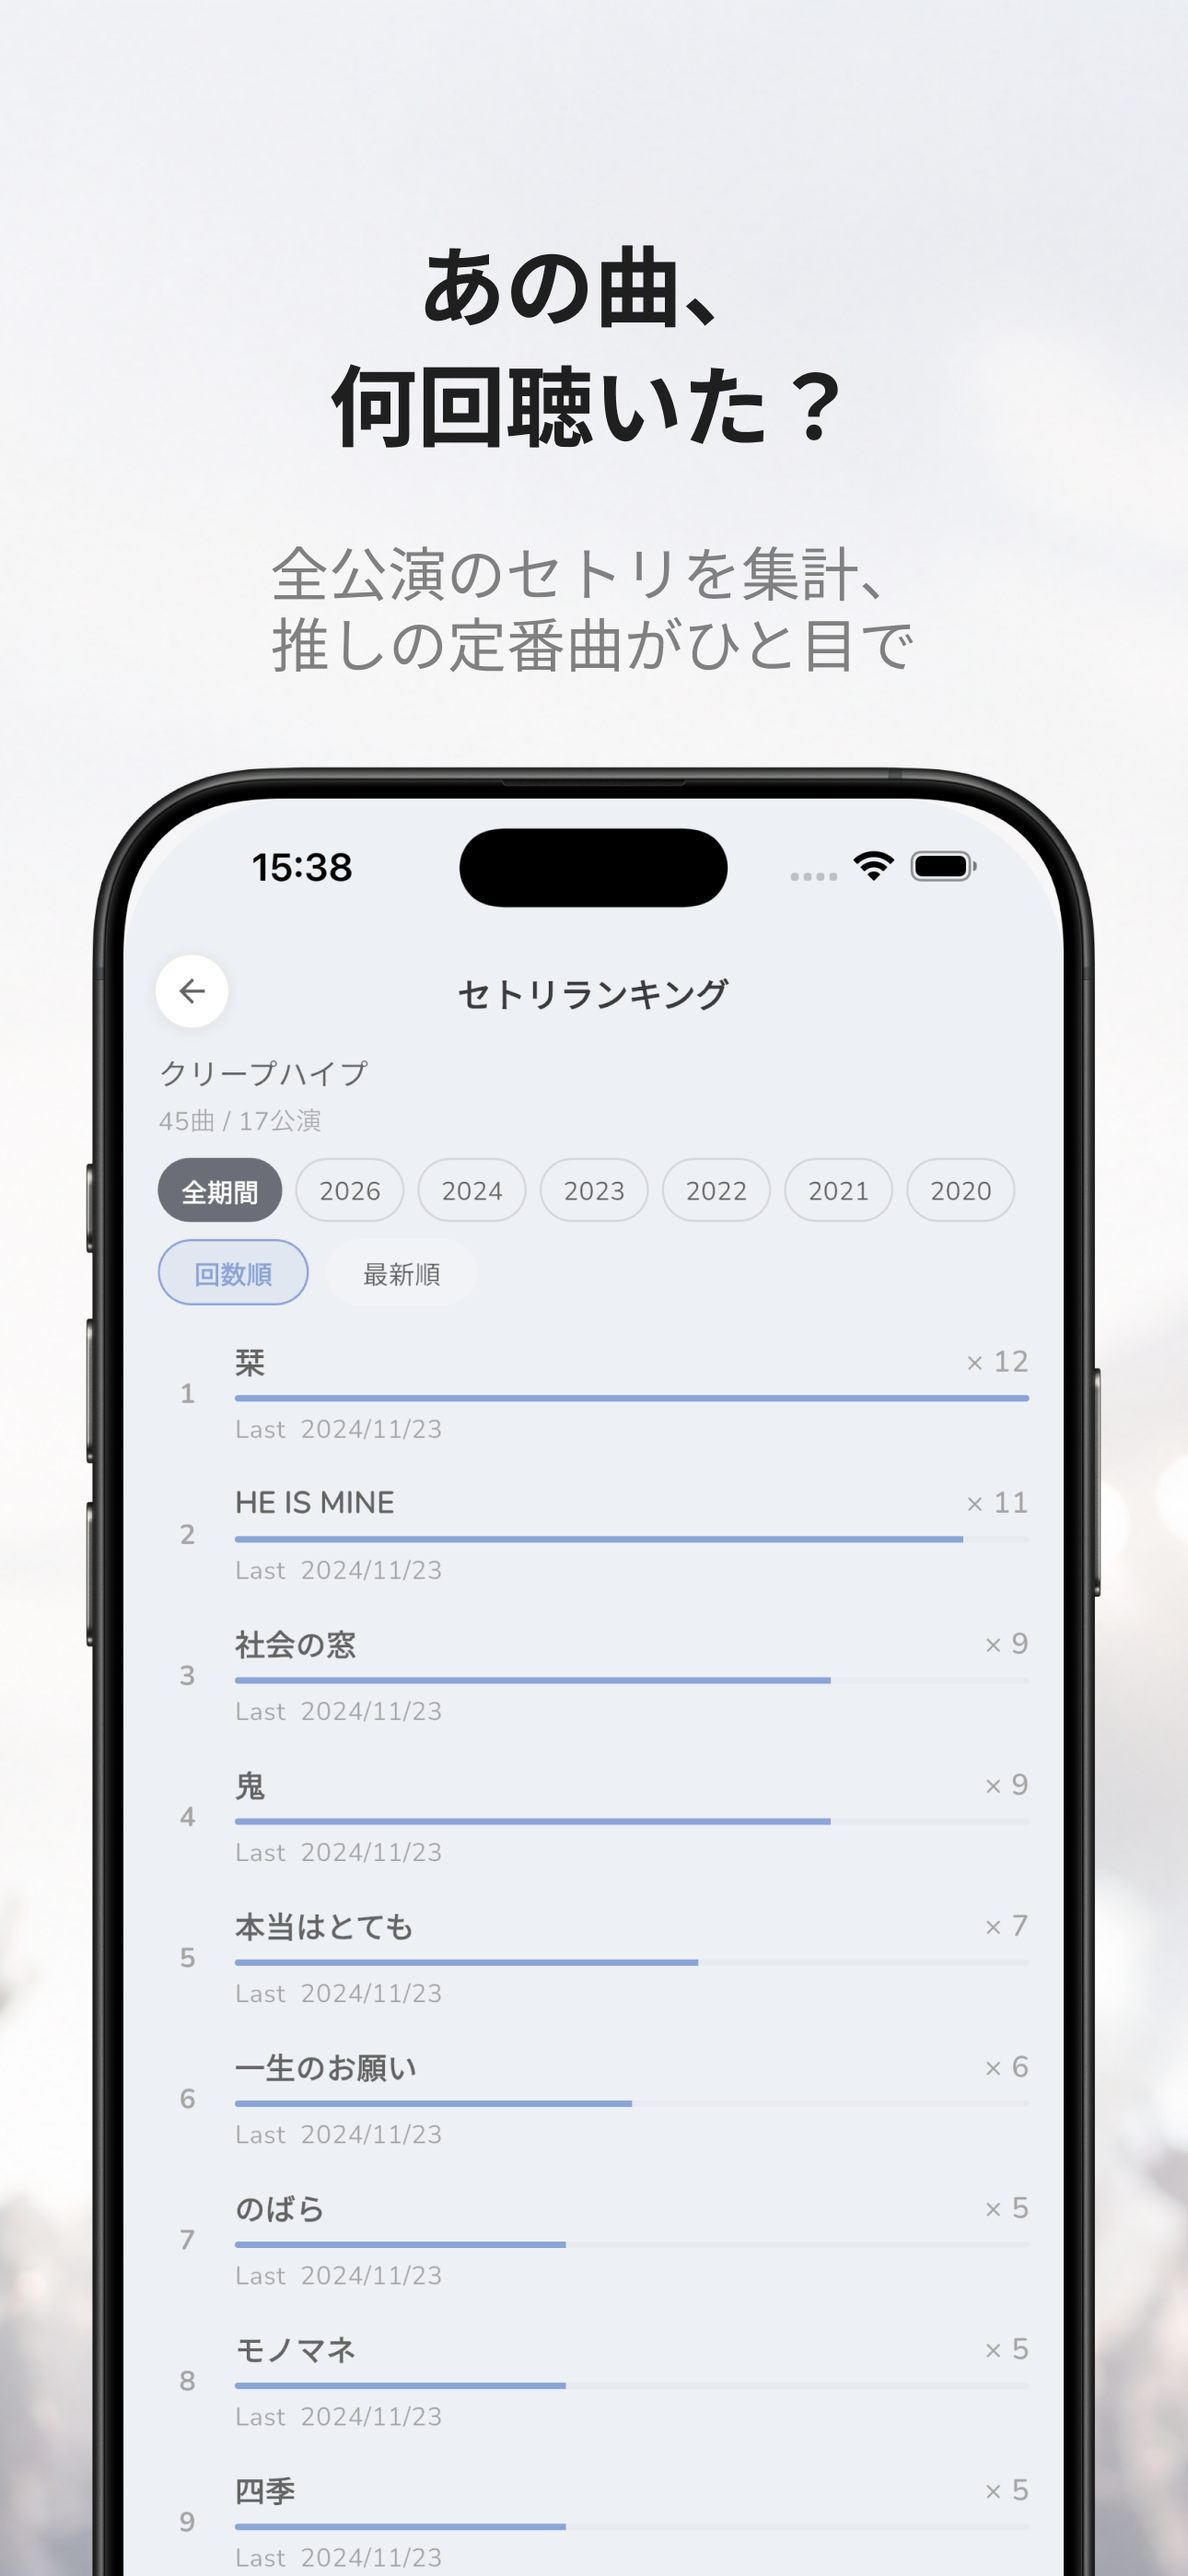
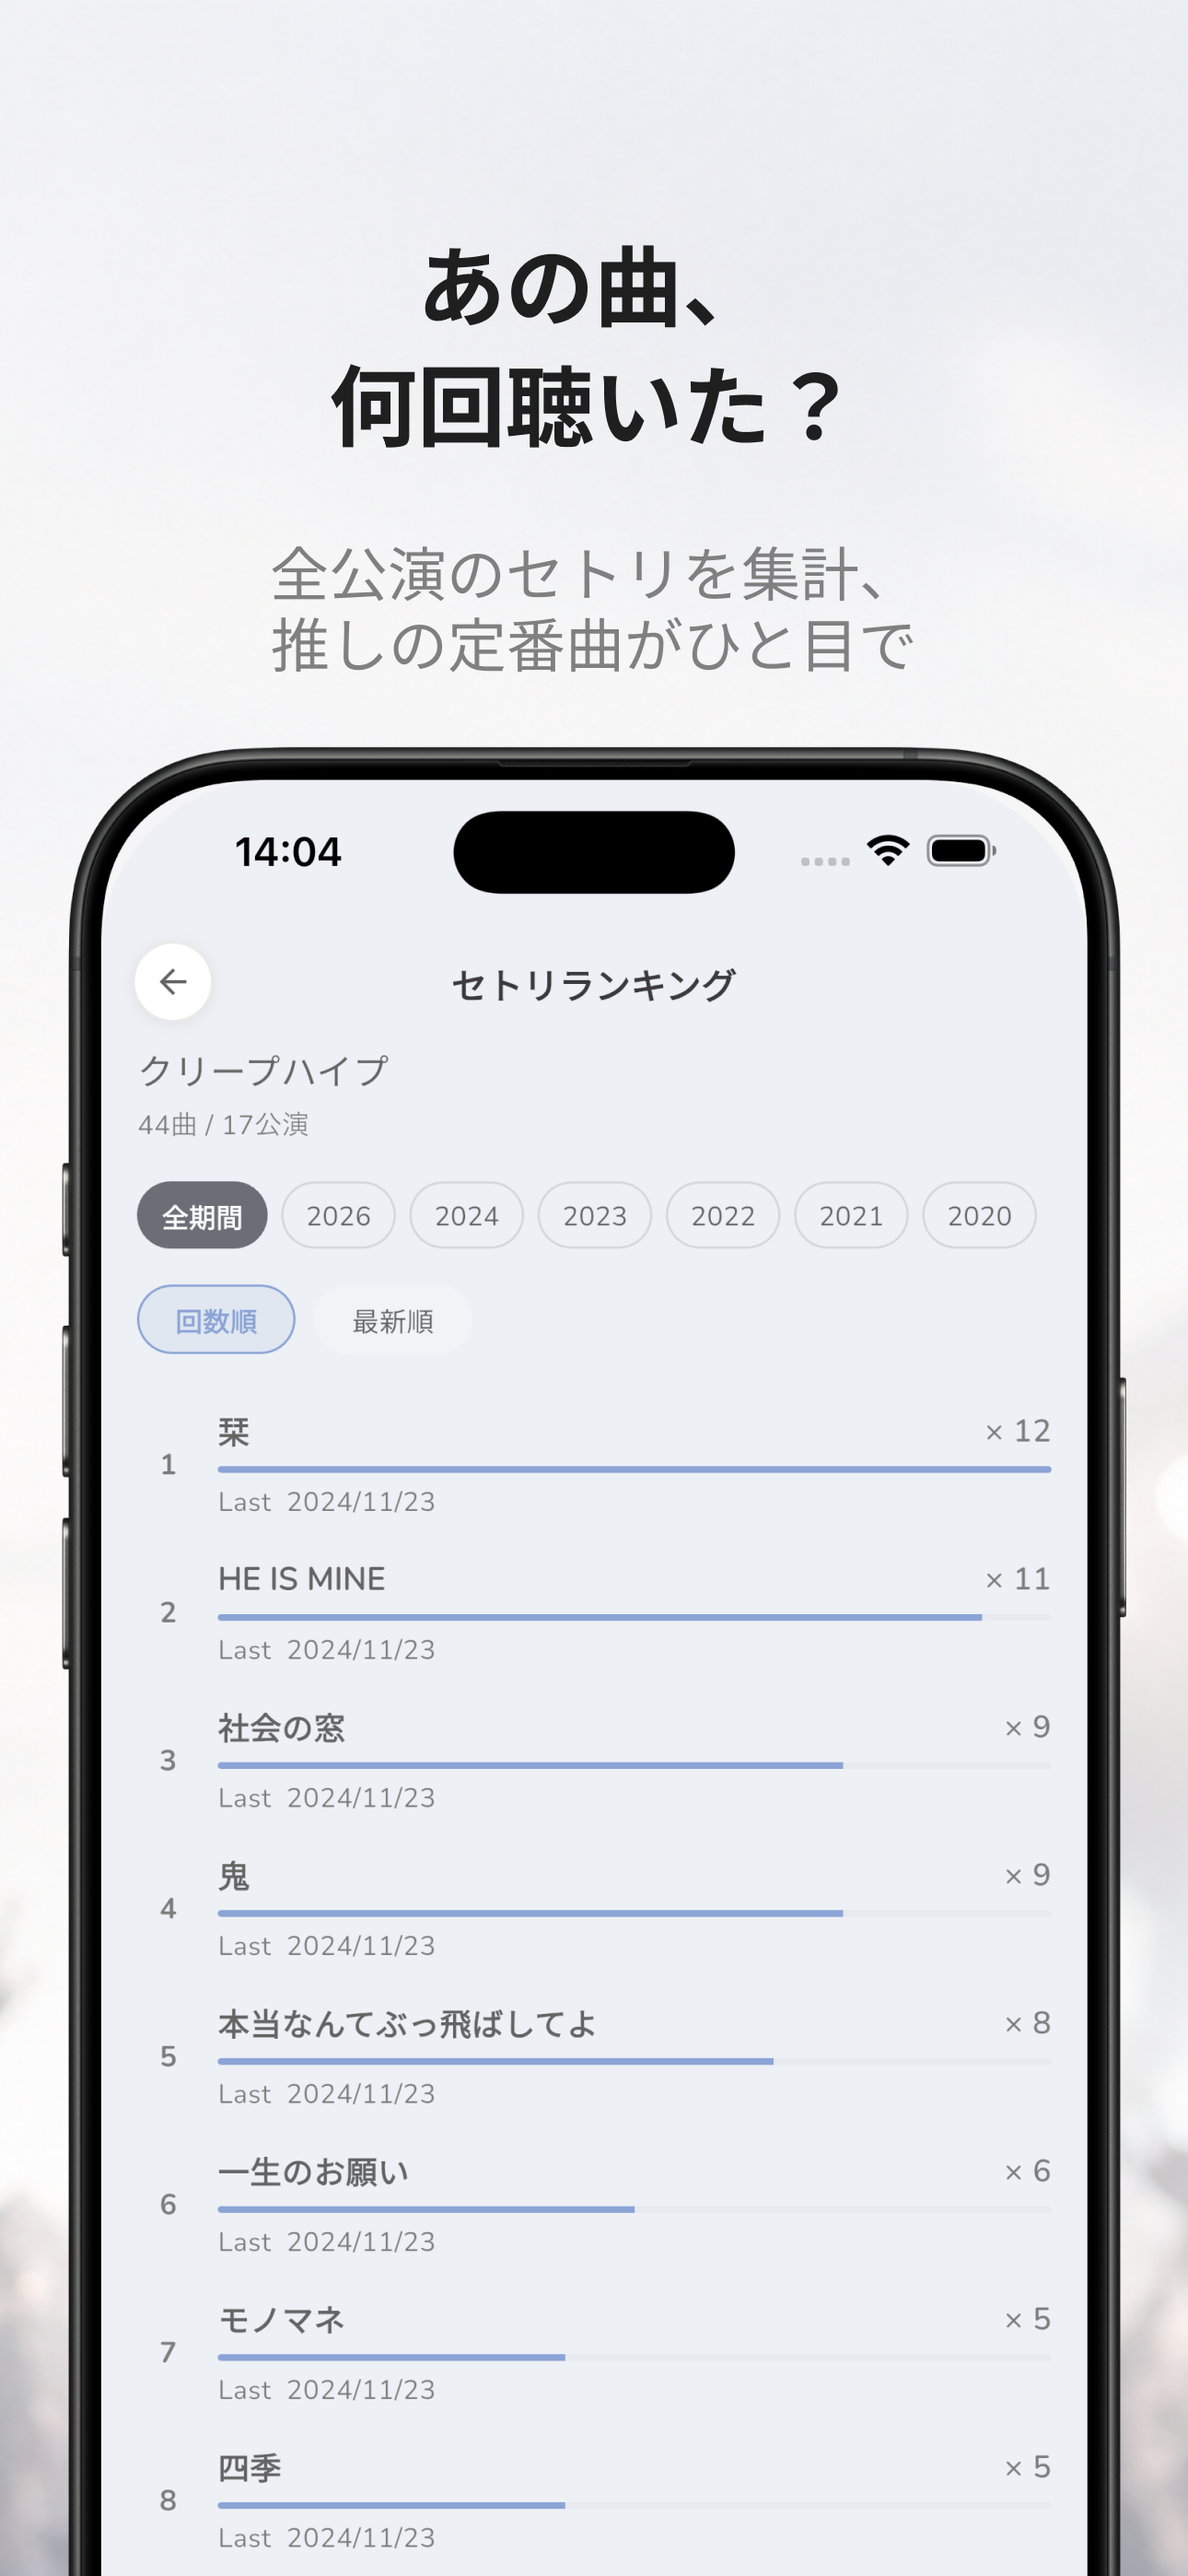
Link Setory App Store button to live listing

diff --git a/setory/index.html b/setory/index.html
@@ -132,7 +132,13 @@
         <div class="container">
           <h2 class="section-title">Download</h2>
           <div class="lp-store-buttons">
-            <a class="lp-store-btn" href="#" aria-label="App Store">
+            <a
+              class="lp-store-btn"
+              href="https://apps.apple.com/jp/app/setory-%E3%83%A9%E3%82%A4%E3%83%96%E8%A8%98%E9%8C%B2-%E3%82%BB%E3%83%83%E3%83%88%E3%83%AA%E3%82%B9%E3%83%88%E7%AE%A1%E7%90%86/id6759853672"
+              target="_blank"
+              rel="noreferrer"
+              aria-label="App Store でダウンロード"
+            >
               App Store
             </a>
           </div>
